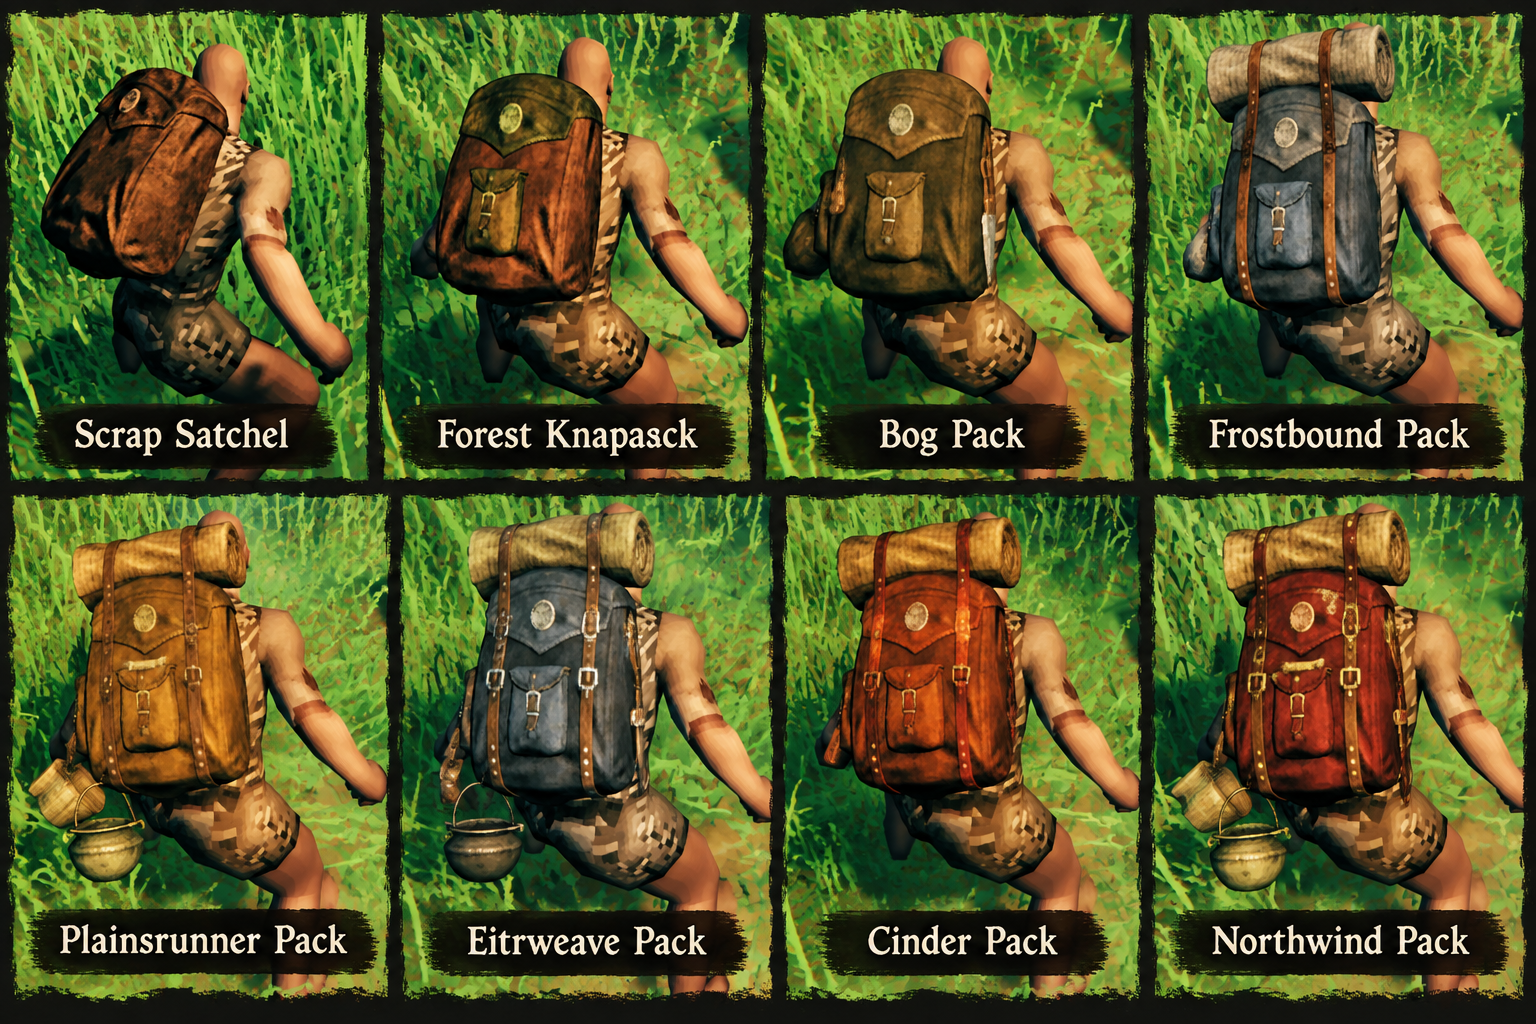
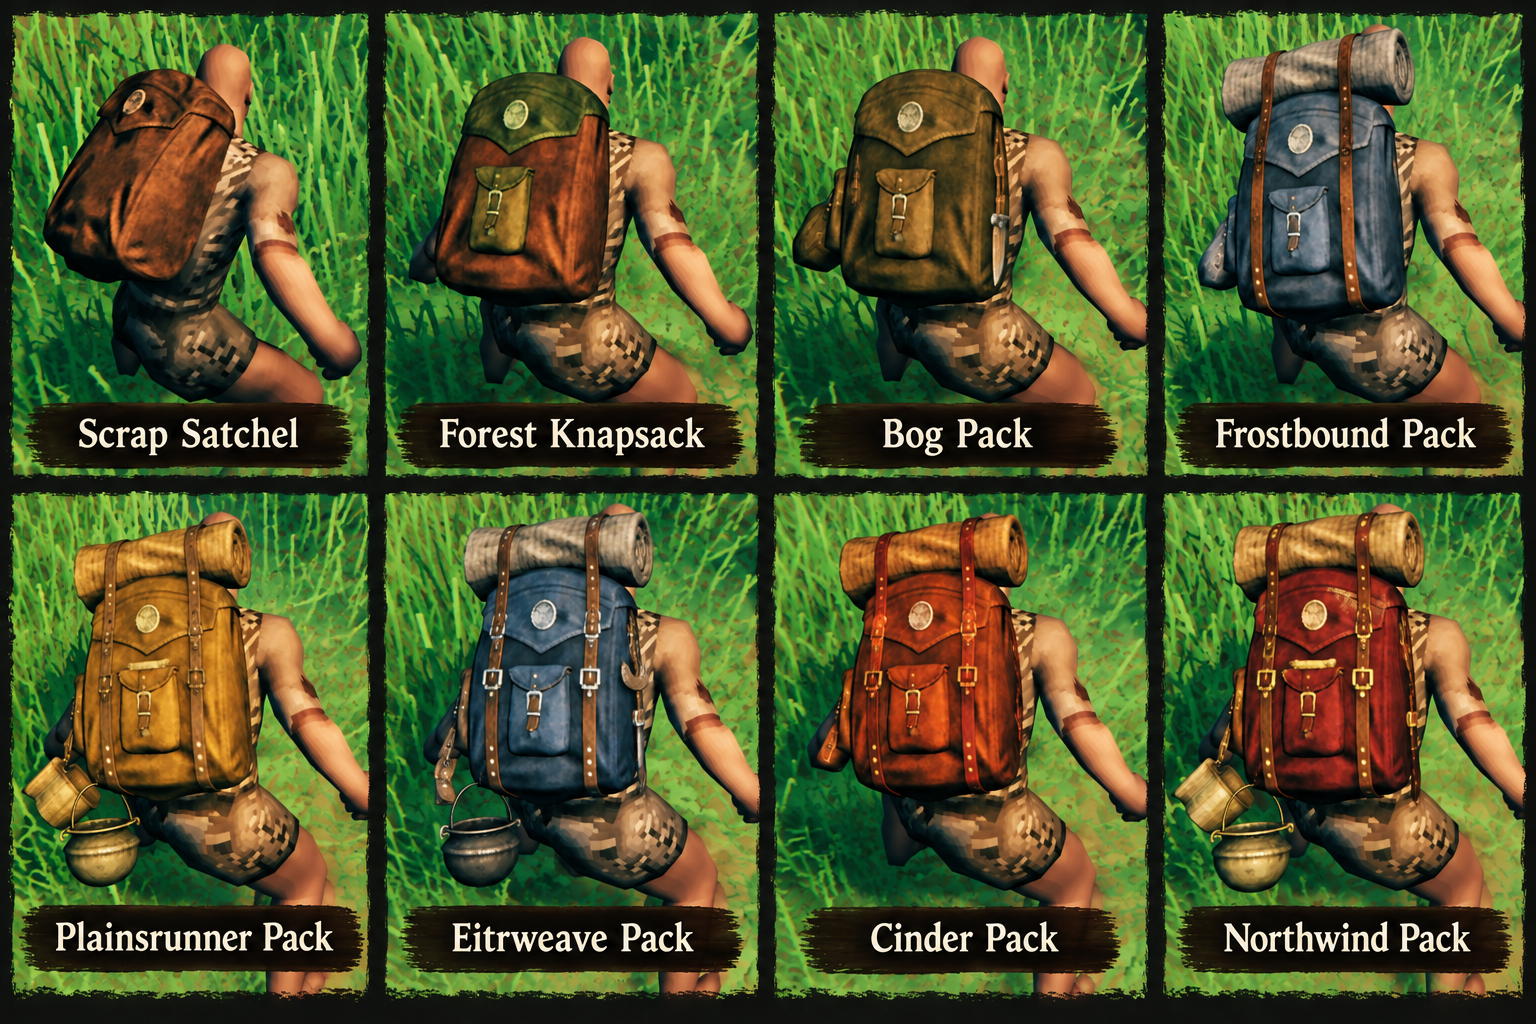
1.0.7: preview image update

diff --git a/CHANGELOG.md b/CHANGELOG.md
@@ -1,6 +1,6 @@
 # Changelog
 
-## 1.0.6.1
+## 1.0.7
 
 - Added a preview image of all eight packs to the README.
 
